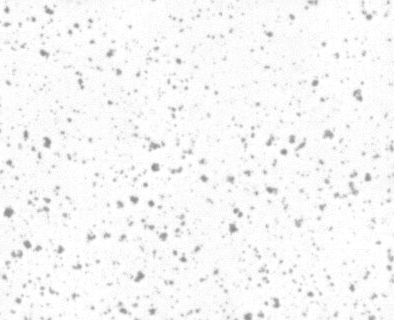
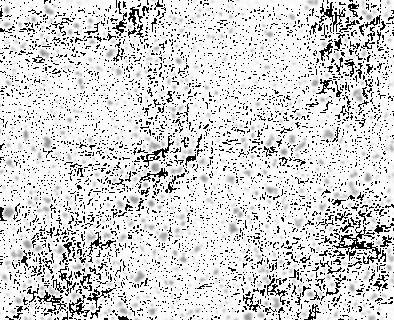
new

diff --git a/ass1/assign1.py b/ass1/assign1.py
@@ -19,7 +19,7 @@ print('Pless enter the value of N: ',end='')
 N = int(input())
 
 # Function that find the maximum value in neighbours
-def maxfilter(row,col):
+def maxfilter(image,row,col):
     start = [row-N//2,col-N//2]
 
     start[0] = max(0,start[0])
@@ -32,11 +32,11 @@ def maxfilter(row,col):
     output = 0
     for i in range(0,N):
         for j in range(0,N):
-            output = max(Image[start[0]+i][start[1]+j],output)
+            output = max(image[start[0]+i][start[1]+j],output)
     return output
 
 # Function that find the minimum value in neighbours
-def minfilter(A,row,col):
+def minfilter(image,row,col):
     start = [row-N//2,col-N//2]
 
     start[0] = max(0,start[0])
@@ -49,23 +49,37 @@ def minfilter(A,row,col):
     output = 255
     for i in range(0,N):
         for j in range(0,N):
-            output = min(A[start[0]+i][start[1]+j],output)
+            output = min(image[start[0]+i][start[1]+j],output)
     return output
 
+print("Enter m value: ",end='')
+M = int(input())
+
 A = np.zeros(I,dtype=np.int)
-for i in range(height):
-    for j in range(width):
-        A[i][j] = maxfilter(i,j)
-
 B = np.zeros(I,dtype=np.int)
-for i in range(height):
-    for j in range(width):
-        B[i][j] = minfilter(A,i,j)
-
 O = np.zeros(I,dtype=np.int)
-for i in range(height):
-    for j in range(width):
-        O[i][j] = Image[i][j] - B[i][j] + 255
+if M == 0:
+    for i in range(height):
+        for j in range(width):
+            A[i][j] = maxfilter(Image,i,j)
+    for i in range(height):
+        for j in range(width):
+            B[i][j] = minfilter(A,i,j)
+    for i in range(height):
+        for j in range(width):
+            O[i][j] = (Image[i][j] - B[i][j])%256
+elif M == 1:
+    for i in range(height):
+        for j in range(width):
+            A[i][j] = minfilter(Image,i,j)
+    for i in range(height):
+        for j in range(width):
+            B[i][j] = maxfilter(A,i,j)
+    for i in range(height):
+        for j in range(width):
+            O[i][j] = Image[i][j] - B[i][j]
+
+
 
 
 cv2.imwrite("A.png",A)
